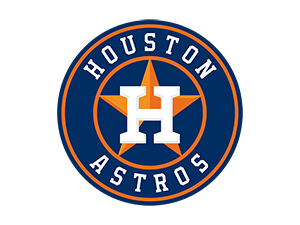
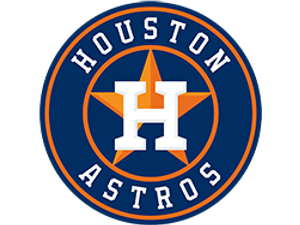
Image compression
All images were scaled to a similar size before being compressed on tinyPNG, Saving roughly 900KB

diff --git a/scenes/PlayScene.js b/scenes/PlayScene.js
@@ -62,8 +62,8 @@ export default class PlayScene extends Phaser.Scene {
         this.gameStarted = false;
 
         //Add the player sprite, shrink collider by 10%
-        const mascotWidth = this.scale.width * 0.25;
-        const mascotHeight = this.scale.height * 0.15;
+        const mascotWidth = this.scale.width * 0.2;
+        const mascotHeight = this.scale.height * 0.1;
         this.player = this.physics.add.sprite(this.scale.width / 4, this.scale.height / 2, 'mascot');
         this.player.setDisplaySize(mascotWidth, mascotHeight);
         this.player.setCollideWorldBounds(true);
